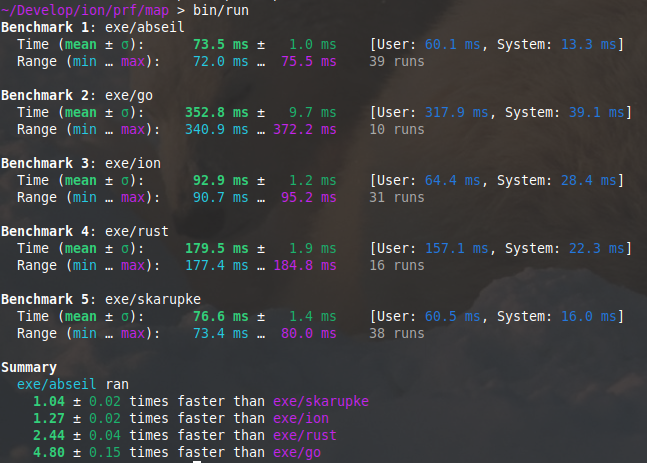
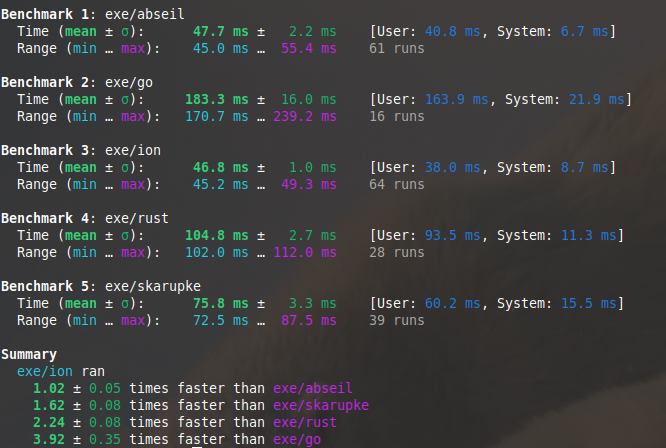
last prf map update before type refactor

diff --git a/prf/map/src/ion/ion.c b/prf/map/src/ion/ion.c
@@ -1,62 +1,63 @@
 #include "../../../../src/ion.h"
 #include "../../../../src/ion.c"
 
-extern i32 numbers[];
+extern u64 numbers[];
 
 void map_inspect(struct map* map) {
-  for (i32 i = 0; i < map->capacity + MAP_PADDED_CAP; i++) {
-    i32 key = as(i32, map_key_at(map, i));
-    i32 value = as(i32, map_value_at(map, i));
+  for (u64 i = 0; i < map->capacity + MAP_PADDED_CAP; i++) {
+    u64 key = as(u64, map_key_at(map, i));
+    u64 value = as(u64, map_value_at(map, i));
 
     if (map_entry_is_empty(map, i)) {
-      print("index: %u,--", i);
+      print("index: %lu,--", i);
     } else {
-      print("index: %u, key: %u, value: %u", i, key, value);
-      hexdump(map_key_at(map, i), sizeof(u64));
+      print("index: %lu, key: %lu, value: %lu", i, key, value);
     }
   }
 }
 
-void insert (
-    void
-)
-{
-  struct memory allocator = memory_init(0);
-  struct map* map = map_allocate(sizeof(i32), sizeof(i32), 0, &allocator);
-
-  for (i32 i = 0; i < 1000000; i++) {
-    map_set(map, &i, &i);
-  }
-
-  print("Done: %i", as(i32, map_get(map, &(i32) { 999999 })));
-  memory_release(&allocator);
-}
+//void insert (
+//    void
+//)
+//{
+//  struct memory allocator = memory_init(0);
+//  struct map* map = map_allocate(sizeof(i32), sizeof(i32), 0, &allocator);
+//
+//  for (i32 i = 0; i < 1000000; i++) {
+//    map_set(map, &i, &i);
+//  }
+//
+//  print("Done: %i", as(i32, map_get(map, &(i32) { 999999 })));
+//  memory_release(&allocator);
+//}
 
 void lookup (
     void
 )
 {
-  struct memory allocator = memory_init(0);
-  struct map* map = map_allocate(sizeof(i32), sizeof(i32), 0, &allocator);
+  struct memory allocator = memory_init(1024*1024);
+  struct map* map = map_allocate(sizeof(u64), sizeof(u64), 1024*1024, &allocator);
 
-  //for (i32 i = 0; i < 1000; i++) {
-  for (i32 i = 0; i < 2; i++) {
-    map_set(map, &numbers[i], &i);
+  for (u64 j = 0; j < 1000; j++) {
+    for (u64 i = 0; i < 1000; i++) {
+      u64 number = numbers[i] + j;
+      map_set(map, &number, &i);
+    }
   }
 
-  i32 v;
-  //for (i32 j = 0; j < 10000; j++) {
-  //  for (i32 i = 0; i < 1000; i++) {
-  //    v = as(i32, map_get(map, &numbers[i]));
-  //  }
-  //}
-  v = as(i32, map_get(map, &(i32) { 660243 }));
+  u64* v;
+  for (u64 j = 0; j < 1000; j++) {
+    for (u64 i = 0; i < 1000; i++) {
+      u64 number = numbers[i] + j;
+      v = map_get(map, &number);
+    }
+  }
 
   print("Size: %li", map->length);
   print("LF: %f", (d64) map->length / (d64) map->capacity);
   print("Buckets: %li", map->capacity);
-  print("Done: %i", v);
-  map_inspect(map);
+  print("Done: %li", *v);
+  //map_inspect(map);
   memory_release(&allocator);
 }
 
@@ -70,7 +71,7 @@ i32 main (
   return EXIT_SUCCESS;
 }
 
-i32 numbers[] = {
+u64 numbers[] = {
  660243, 183487, 349829, 723521, 869182, 855900, 631825, 762097,  88760, 877229, 211180,
  184250, 938476, 879995, 478638, 941064,  95831, 106271, 585635, 900241, 636978, 819282,
  200357, 744761, 704975, 984066, 361726, 417089, 342256, 173680, 709161, 951830, 120277,

diff --git a/prf/map/src/rust/src/main.rs b/prf/map/src/rust/src/main.rs
@@ -1,25 +1,27 @@
 use std::collections::HashMap;
 
-fn insert() {
-  let mut map: HashMap<usize, usize> = HashMap::new();
-  for i in 0..1000000 {
-    map.insert(i, i);
-  }
-
-  println!("Done: {}", map.get(&999999).unwrap());
-}
+//fn insert() {
+//  let mut map: HashMap<usize, usize> = HashMap::new();
+//  for i in 0..1000000 {
+//    map.insert(i, i);
+//  }
+//
+//  println!("Done: {}", map.get(&999999).unwrap());
+//}
 
 fn lookup() {
   let mut map: HashMap<usize, usize> = HashMap::new();
 
-  for i in 0..1000 {
-    map.insert(NUMBERS[i], i);
+  for j in 0..1000 {
+    for i in 0..1000 {
+      map.insert(NUMBERS[i] + j, i);
+    }
   }
 
   let mut v: usize = 0;
-  for _j in 0..10000 {
+  for j in 0..1000 {
     for i in 0..1000 {
-      v = *map.get(&NUMBERS[i]).unwrap();
+      v = *map.get(&(NUMBERS[i] + j)).unwrap();
     }
   }
 
@@ -27,7 +29,7 @@ fn lookup() {
 }
 
 fn main() {
-  insert();
+  //insert();
   lookup();
 }
 

diff --git a/prf/map/src/abseil/abseil.cpp b/prf/map/src/abseil/abseil.cpp
@@ -16,14 +16,18 @@ void insert() {
 void lookup() {
   absl::flat_hash_map<int, int> map;
 
-  for (int i = 0; i < 1000; i++) {
-    map[numbers[i]] = i;
+  for (int j = 0; j < 1000; j++) {
+    for (int i = 0; i < 1000; i++) {
+      int number = numbers[i] + j;
+      map[number] = i;
+    }
   }
 
   int v;
-  for (int j = 0; j < 10000; j++) {
+  for (int j = 0; j < 1000; j++) {
     for (int i = 0; i < 1000; i++) {
-      v = map[numbers[i]];
+      int number = numbers[i] + j;
+      v = map[number];
     }
   }
 

diff --git a/prf/map/src/skarupke/skarupke.cpp b/prf/map/src/skarupke/skarupke.cpp
@@ -34,14 +34,18 @@ void insert () {
 void lookup() {
   ska::flat_hash_map<int, int> map;
 
-  for (int i = 0; i < 1000; i++) {
-    map[numbers[i]] = i;
+  for (int j = 0; j < 1000; j++) {
+    for (int i = 0; i < 1000; i++) {
+      int number = numbers[i] + j;
+      map[number] = i;
+    }
   }
 
   int v;
-  for (int j = 0; j < 10000; j++) {
+  for (int j = 0; j < 1000; j++) {
     for (int i = 0; i < 1000; i++) {
-      v = map[numbers[i]];
+      int number = numbers[i] + j;
+      v = map[number];
     }
   }
 

diff --git a/prf/map/src/go/go.go b/prf/map/src/go/go.go
@@ -17,14 +17,16 @@ func insert() {
 func lookup() {
   m := make(map[int]int)
 
-  for i := 0; i < 1000; i++ {
-    m[numbers[i]] = i;
+  for j := 0; j < 1000; j++ {
+    for i := 0; i < 1000; i++ {
+      m[numbers[i] + j] = i;
+    }
   }
 
   var v int;
-  for j := 0; j < 10000; j++ {
+  for j := 0; j < 1000; j++ {
     for i := 0; i < 1000; i++ {
-      v = m[numbers[i]];
+      v = m[numbers[i] + j];
    }
  }
 
@@ -32,7 +34,7 @@ func lookup() {
 }
 
 func main() {
-  insert()
+  //insert()
   lookup()
 }
 
